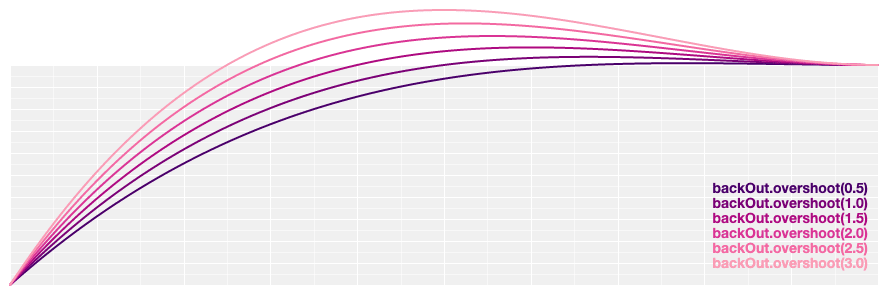
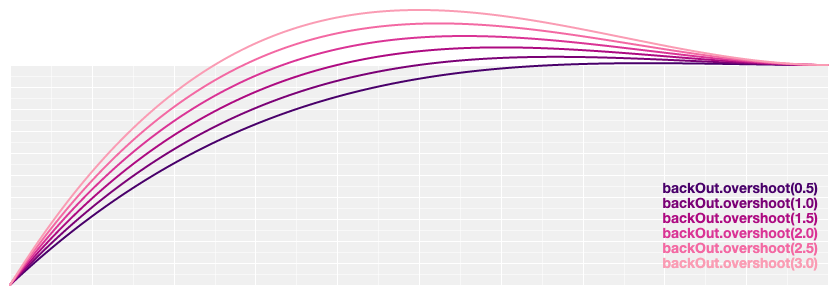
new github design: images are now 838px wide

Changed region(s): [[0.7757, 0.6102, 0.9928, 0.9153], [0.031, 0.3966, 0.2792, 0.9153], [0.0, 0.9153, 0.031, 0.9763]]

diff --git a/README.md b/README.md
@@ -45,26 +45,26 @@ var te = customElastic(t);
 
 Linear easing; the identity function; *linear*(*t*) returns *t*.
 
-[<img src="https://raw.githubusercontent.com/d3/d3-ease/master/img/linear.png" alt="linear" width="100%" height="240">](https://observablehq.com/@d3/easing#linear)
+[<img src="https://raw.githubusercontent.com/d3/d3-ease/master/img/linear.png" alt="linear">](https://observablehq.com/@d3/easing#linear)
 
 <a name="easePolyIn" href="#easePolyIn">#</a> d3.<b>easePolyIn</b>(<i>t</i>) [<>](https://github.com/d3/d3-ease/blob/master/src/poly.js#L3 "Source")
 
 Polynomial easing; raises *t* to the specified [exponent](#poly_exponent). If the exponent is not specified, it defaults to 3, equivalent to [cubicIn](#easeCubicIn).
 
-[<img src="https://raw.githubusercontent.com/d3/d3-ease/master/img/polyIn.png" alt="polyIn" width="100%" height="240">](https://observablehq.com/@d3/easing#polyIn)
+[<img src="https://raw.githubusercontent.com/d3/d3-ease/master/img/polyIn.png" alt="polyIn">](https://observablehq.com/@d3/easing#polyIn)
 
 <a name="easePolyOut" href="#easePolyOut">#</a> d3.<b>easePolyOut</b>(<i>t</i>) [<>](https://github.com/d3/d3-ease/blob/master/src/poly.js#L15 "Source")
 
 Reverse polynomial easing; equivalent to 1 - [polyIn](#easePolyIn)(1 - *t*). If the [exponent](#poly_exponent) is not specified, it defaults to 3, equivalent to [cubicOut](#easeCubicOut).
 
-[<img src="https://raw.githubusercontent.com/d3/d3-ease/master/img/polyOut.png" alt="polyOut" width="100%" height="240">](https://observablehq.com/@d3/easing#polyOut)
+[<img src="https://raw.githubusercontent.com/d3/d3-ease/master/img/polyOut.png" alt="polyOut">](https://observablehq.com/@d3/easing#polyOut)
 
 <a name="easePoly" href="#easePoly">#</a> d3.<b>easePoly</b>(<i>t</i>) [<>](https://github.com/d3/d3-ease/blob/master/src/poly.js "Source")
 <br><a name="easePolyInOut" href="#easePolyInOut">#</a> d3.<b>easePolyInOut</b>(<i>t</i>) [<>](https://github.com/d3/d3-ease/blob/master/src/poly.js#L27 "Source")
 
 Symmetric polynomial easing; scales [polyIn](#easePolyIn) for *t* in [0, 0.5] and [polyOut](#easePolyOut) for *t* in [0.5, 1]. If the [exponent](#poly_exponent) is not specified, it defaults to 3, equivalent to [cubic](#easeCubic).
 
-[<img src="https://raw.githubusercontent.com/d3/d3-ease/master/img/polyInOut.png" alt="polyInOut" width="100%" height="240">](https://observablehq.com/@d3/easing#polyInOut)
+[<img src="https://raw.githubusercontent.com/d3/d3-ease/master/img/polyInOut.png" alt="polyInOut">](https://observablehq.com/@d3/easing#polyInOut)
 
 <a name="poly_exponent" href="#poly_exponent">#</a> <i>poly</i>.<b>exponent</b>(<i>e</i>) [<>](https://github.com/d3/d3-ease/blob/master/src/poly.js#L1 "Source")
 
@@ -80,115 +80,115 @@ var linear = d3.easePoly.exponent(1),
 
 Quadratic easing; equivalent to [polyIn](#easePolyIn).[exponent](#poly_exponent)(2).
 
-[<img src="https://raw.githubusercontent.com/d3/d3-ease/master/img/quadIn.png" alt="quadIn" width="100%" height="240">](https://observablehq.com/@d3/easing#quadIn)
+[<img src="https://raw.githubusercontent.com/d3/d3-ease/master/img/quadIn.png" alt="quadIn">](https://observablehq.com/@d3/easing#quadIn)
 
 <a name="easeQuadOut" href="#easeQuadOut">#</a> d3.<b>easeQuadOut</b>(<i>t</i>) [<>](https://github.com/d3/d3-ease/blob/master/src/quad.js#L5 "Source")
 
 Reverse quadratic easing; equivalent to 1 - [quadIn](#easeQuadIn)(1 - *t*). Also equivalent to [polyOut](#easePolyOut).[exponent](#poly_exponent)(2).
 
-[<img src="https://raw.githubusercontent.com/d3/d3-ease/master/img/quadOut.png" alt="quadOut" width="100%" height="240">](https://observablehq.com/@d3/easing#quadOut)
+[<img src="https://raw.githubusercontent.com/d3/d3-ease/master/img/quadOut.png" alt="quadOut">](https://observablehq.com/@d3/easing#quadOut)
 
 <a name="easeQuad" href="#easeQuad">#</a> d3.<b>easeQuad</b>(<i>t</i>) [<>](https://github.com/d3/d3-ease/blob/master/src/quad.js "Source")
 <br><a name="easeQuadInOut" href="#easeQuadInOut">#</a> d3.<b>easeQuadInOut</b>(<i>t</i>) [<>](https://github.com/d3/d3-ease/blob/master/src/quad.js#L9 "Source")
 
 Symmetric quadratic easing; scales [quadIn](#easeQuadIn) for *t* in [0, 0.5] and [quadOut](#easeQuadOut) for *t* in [0.5, 1]. Also equivalent to [poly](#easePoly).[exponent](#poly_exponent)(2).
 
-[<img src="https://raw.githubusercontent.com/d3/d3-ease/master/img/quadInOut.png" alt="quadInOut" width="100%" height="240">](https://observablehq.com/@d3/easing#quadInOut)
+[<img src="https://raw.githubusercontent.com/d3/d3-ease/master/img/quadInOut.png" alt="quadInOut">](https://observablehq.com/@d3/easing#quadInOut)
 
 <a name="easeCubicIn" href="#easeCubicIn">#</a> d3.<b>easeCubicIn</b>(<i>t</i>) [<>](https://github.com/d3/d3-ease/blob/master/src/cubic.js#L1 "Source")
 
 Cubic easing; equivalent to [polyIn](#easePolyIn).[exponent](#poly_exponent)(3).
 
-[<img src="https://raw.githubusercontent.com/d3/d3-ease/master/img/cubicIn.png" alt="cubicIn" width="100%" height="240">](https://observablehq.com/@d3/easing#cubicIn)
+[<img src="https://raw.githubusercontent.com/d3/d3-ease/master/img/cubicIn.png" alt="cubicIn">](https://observablehq.com/@d3/easing#cubicIn)
 
 <a name="easeCubicOut" href="#easeCubicOut">#</a> d3.<b>easeCubicOut</b>(<i>t</i>) [<>](https://github.com/d3/d3-ease/blob/master/src/cubic.js#L5 "Source")
 
 Reverse cubic easing; equivalent to 1 - [cubicIn](#easeCubicIn)(1 - *t*). Also equivalent to [polyOut](#easePolyOut).[exponent](#poly_exponent)(3).
 
-[<img src="https://raw.githubusercontent.com/d3/d3-ease/master/img/cubicOut.png" alt="cubicOut" width="100%" height="240">](https://observablehq.com/@d3/easing#cubicOut)
+[<img src="https://raw.githubusercontent.com/d3/d3-ease/master/img/cubicOut.png" alt="cubicOut">](https://observablehq.com/@d3/easing#cubicOut)
 
 <a name="easeCubic" href="#easeCubic">#</a> d3.<b>easeCubic</b>(<i>t</i>) [<>](https://github.com/d3/d3-ease/blob/master/src/cubic.js "Source")
 <br><a name="easeCubicInOut" href="#easeCubicInOut">#</a> d3.<b>easeCubicInOut</b>(<i>t</i>) [<>](https://github.com/d3/d3-ease/blob/master/src/cubic.js#L9 "Source")
 
 Symmetric cubic easing; scales [cubicIn](#easeCubicIn) for *t* in [0, 0.5] and [cubicOut](#easeCubicOut) for *t* in [0.5, 1]. Also equivalent to [poly](#easePoly).[exponent](#poly_exponent)(3).
 
-[<img src="https://raw.githubusercontent.com/d3/d3-ease/master/img/cubicInOut.png" alt="cubicInOut" width="100%" height="240">](https://observablehq.com/@d3/easing#cubicInOut)
+[<img src="https://raw.githubusercontent.com/d3/d3-ease/master/img/cubicInOut.png" alt="cubicInOut">](https://observablehq.com/@d3/easing#cubicInOut)
 
 <a name="easeSinIn" href="#easeSinIn">#</a> d3.<b>easeSinIn</b>(<i>t</i>) [<>](https://github.com/d3/d3-ease/blob/master/src/sin.js#L4 "Source")
 
 Sinusoidal easing; returns sin(*t*).
 
-[<img src="https://raw.githubusercontent.com/d3/d3-ease/master/img/sinIn.png" alt="sinIn" width="100%" height="240">](https://observablehq.com/@d3/easing#sinIn)
+[<img src="https://raw.githubusercontent.com/d3/d3-ease/master/img/sinIn.png" alt="sinIn">](https://observablehq.com/@d3/easing#sinIn)
 
 <a name="easeSinOut" href="#easeSinOut">#</a> d3.<b>easeSinOut</b>(<i>t</i>) [<>](https://github.com/d3/d3-ease/blob/master/src/sin.js#L8 "Source")
 
 Reverse sinusoidal easing; equivalent to 1 - [sinIn](#easeSinIn)(1 - *t*).
 
-[<img src="https://raw.githubusercontent.com/d3/d3-ease/master/img/sinOut.png" alt="sinOut" width="100%" height="240">](https://observablehq.com/@d3/easing#sinOut)
+[<img src="https://raw.githubusercontent.com/d3/d3-ease/master/img/sinOut.png" alt="sinOut">](https://observablehq.com/@d3/easing#sinOut)
 
 <a name="easeSin" href="#easeSin">#</a> d3.<b>easeSin</b>(<i>t</i>) [<>](https://github.com/d3/d3-ease/blob/master/src/sin.js "Source")
 <br><a name="easeSinInOut" href="#easeSinInOut">#</a> d3.<b>easeSinInOut</b>(<i>t</i>) [<>](https://github.com/d3/d3-ease/blob/master/src/sin.js#L12 "Source")
 
 Symmetric sinusoidal easing; scales [sinIn](#easeSinIn) for *t* in [0, 0.5] and [sinOut](#easeSinOut) for *t* in [0.5, 1].
 
-[<img src="https://raw.githubusercontent.com/d3/d3-ease/master/img/sinInOut.png" alt="sinInOut" width="100%" height="240">](https://observablehq.com/@d3/easing#sinInOut)
+[<img src="https://raw.githubusercontent.com/d3/d3-ease/master/img/sinInOut.png" alt="sinInOut">](https://observablehq.com/@d3/easing#sinInOut)
 
 <a name="easeExpIn" href="#easeExpIn">#</a> d3.<b>easeExpIn</b>(<i>t</i>) [<>](https://github.com/d3/d3-ease/blob/master/src/exp.js#L1 "Source")
 
 Exponential easing; raises 2 to the exponent 10 \* (*t* - 1).
 
-[<img src="https://raw.githubusercontent.com/d3/d3-ease/master/img/expIn.png" alt="expIn" width="100%" height="240">](https://observablehq.com/@d3/easing#expIn)
+[<img src="https://raw.githubusercontent.com/d3/d3-ease/master/img/expIn.png" alt="expIn">](https://observablehq.com/@d3/easing#expIn)
 
 <a name="easeExpOut" href="#easeExpOut">#</a> d3.<b>easeExpOut</b>(<i>t</i>) [<>](https://github.com/d3/d3-ease/blob/master/src/exp.js#L5 "Source")
 
 Reverse exponential easing; equivalent to 1 - [expIn](#easeExpIn)(1 - *t*).
 
-[<img src="https://raw.githubusercontent.com/d3/d3-ease/master/img/expOut.png" alt="expOut" width="100%" height="240">](https://observablehq.com/@d3/easing#expOut)
+[<img src="https://raw.githubusercontent.com/d3/d3-ease/master/img/expOut.png" alt="expOut">](https://observablehq.com/@d3/easing#expOut)
 
 <a name="easeExp" href="#easeExp">#</a> d3.<b>easeExp</b>(<i>t</i>) [<>](https://github.com/d3/d3-ease/blob/master/src/exp.js "Source")
 <br><a name="easeExpInOut" href="#easeExpInOut">#</a> d3.<b>easeExpInOut</b>(<i>t</i>) [<>](https://github.com/d3/d3-ease/blob/master/src/exp.js#L9 "Source")
 
 Symmetric exponential easing; scales [expIn](#easeExpIn) for *t* in [0, 0.5] and [expOut](#easeExpOut) for *t* in [0.5, 1].
 
-[<img src="https://raw.githubusercontent.com/d3/d3-ease/master/img/expInOut.png" alt="expInOut" width="100%" height="240">](https://observablehq.com/@d3/easing#expInOut)
+[<img src="https://raw.githubusercontent.com/d3/d3-ease/master/img/expInOut.png" alt="expInOut">](https://observablehq.com/@d3/easing#expInOut)
 
 <a name="easeCircleIn" href="#easeCircleIn">#</a> d3.<b>easeCircleIn</b>(<i>t</i>) [<>](https://github.com/d3/d3-ease/blob/master/src/circle.js#L1 "Source")
 
 Circular easing.
 
-[<img src="https://raw.githubusercontent.com/d3/d3-ease/master/img/circleIn.png" alt="circleIn" width="100%" height="240">](https://observablehq.com/@d3/easing#circleIn)
+[<img src="https://raw.githubusercontent.com/d3/d3-ease/master/img/circleIn.png" alt="circleIn">](https://observablehq.com/@d3/easing#circleIn)
 
 <a name="easeCircleOut" href="#easeCircleOut">#</a> d3.<b>easeCircleOut</b>(<i>t</i>) [<>](https://github.com/d3/d3-ease/blob/master/src/circle.js#L5 "Source")
 
 Reverse circular easing; equivalent to 1 - [circleIn](#easeCircleIn)(1 - *t*).
 
-[<img src="https://raw.githubusercontent.com/d3/d3-ease/master/img/circleOut.png" alt="circleOut" width="100%" height="240">](https://observablehq.com/@d3/easing#circleOut)
+[<img src="https://raw.githubusercontent.com/d3/d3-ease/master/img/circleOut.png" alt="circleOut">](https://observablehq.com/@d3/easing#circleOut)
 
 <a name="easeCircle" href="#easeCircle">#</a> d3.<b>easeCircle</b>(<i>t</i>) [<>](https://github.com/d3/d3-ease/blob/master/src/circle.js "Source")
 <br><a name="easeCircleInOut" href="#easeCircleInOut">#</a> d3.<b>easeCircleInOut</b>(<i>t</i>) [<>](https://github.com/d3/d3-ease/blob/master/src/circle.js#L9 "Source")
 
 Symmetric circular easing; scales [circleIn](#easeCircleIn) for *t* in [0, 0.5] and [circleOut](#easeCircleOut) for *t* in [0.5, 1].
 
-[<img src="https://raw.githubusercontent.com/d3/d3-ease/master/img/circleInOut.png" alt="circleInOut" width="100%" height="240">](https://observablehq.com/@d3/easing#circleInOut)
+[<img src="https://raw.githubusercontent.com/d3/d3-ease/master/img/circleInOut.png" alt="circleInOut">](https://observablehq.com/@d3/easing#circleInOut)
 
 <a name="easeElasticIn" href="#easeElasticIn">#</a> d3.<b>easeElasticIn</b>(<i>t</i>) [<>](https://github.com/d3/d3-ease/blob/master/src/elastic.js#L5 "Source")
 
 Elastic easing, like a rubber band. The [amplitude](#elastic_amplitude) and [period](#elastic_period) of the oscillation are configurable; if not specified, they default to 1 and 0.3, respectively.
 
-[<img src="https://raw.githubusercontent.com/d3/d3-ease/master/img/elasticIn.png" alt="elasticIn" width="100%" height="360">](https://observablehq.com/@d3/easing#elasticIn)
+[<img src="https://raw.githubusercontent.com/d3/d3-ease/master/img/elasticIn.png" alt="elasticIn">](https://observablehq.com/@d3/easing#elasticIn)
 
 <a name="easeElastic" href="#easeElastic">#</a> d3.<b>easeElastic</b>(<i>t</i>) [<>](https://github.com/d3/d3-ease/blob/master/src/elastic.js "Source")
 <br><a name="easeElasticOut" href="#easeElasticOut">#</a> d3.<b>easeElasticOut</b>(<i>t</i>) [<>](https://github.com/d3/d3-ease/blob/master/src/elastic.js#L18 "Source")
 
 Reverse elastic easing; equivalent to 1 - [elasticIn](#easeElasticIn)(1 - *t*).
 
-[<img src="https://raw.githubusercontent.com/d3/d3-ease/master/img/elasticOut.png" alt="elasticOut" width="100%" height="360">](https://observablehq.com/@d3/easing#elasticOut)
+[<img src="https://raw.githubusercontent.com/d3/d3-ease/master/img/elasticOut.png" alt="elasticOut">](https://observablehq.com/@d3/easing#elasticOut)
 
 <a name="easeElasticInOut" href="#easeElasticInOut">#</a> d3.<b>easeElasticInOut</b>(<i>t</i>) [<>](https://github.com/d3/d3-ease/blob/master/src/elastic.js#L31 "Source")
 
 Symmetric elastic easing; scales [elasticIn](#easeElasticIn) for *t* in [0, 0.5] and [elasticOut](#easeElasticOut) for *t* in [0.5, 1].
 
-[<img src="https://raw.githubusercontent.com/d3/d3-ease/master/img/elasticInOut.png" alt="elasticInOut" width="100%" height="360">](https://observablehq.com/@d3/easing#elasticInOut)
+[<img src="https://raw.githubusercontent.com/d3/d3-ease/master/img/elasticInOut.png" alt="elasticInOut">](https://observablehq.com/@d3/easing#elasticInOut)
 
 <a name="elastic_amplitude" href="#elastic_amplitude">#</a> <i>elastic</i>.<b>amplitude</b>(<i>a</i>) [<>](https://github.com/d3/d3-ease/blob/master/src/elastic.js#L40 "Source")
 
@@ -202,20 +202,20 @@ Returns a new elastic easing with the specified period *p*.
 
 [Anticipatory](https://en.wikipedia.org/wiki/12_basic_principles_of_animation#Anticipation) easing, like a dancer bending his knees before jumping off the floor. The degree of [overshoot](#back_overshoot) is configurable; if not specified, it defaults to 1.70158.
 
-[<img src="https://raw.githubusercontent.com/d3/d3-ease/master/img/backIn.png" alt="backIn" width="100%" height="300">](https://observablehq.com/@d3/easing#backIn)
+[<img src="https://raw.githubusercontent.com/d3/d3-ease/master/img/backIn.png" alt="backIn">](https://observablehq.com/@d3/easing#backIn)
 
 <a name="easeBackOut" href="#easeBackOut">#</a> d3.<b>easeBackOut</b>(<i>t</i>) [<>](https://github.com/d3/d3-ease/blob/master/src/back.js#L15 "Source")
 
 Reverse anticipatory easing; equivalent to 1 - [backIn](#easeBackIn)(1 - *t*).
 
-[<img src="https://raw.githubusercontent.com/d3/d3-ease/master/img/backOut.png" alt="backOut" width="100%" height="300">](https://observablehq.com/@d3/easing#backOut)
+[<img src="https://raw.githubusercontent.com/d3/d3-ease/master/img/backOut.png" alt="backOut">](https://observablehq.com/@d3/easing#backOut)
 
 <a name="easeBack" href="#easeBack">#</a> d3.<b>easeBack</b>(<i>t</i>) [<>](https://github.com/d3/d3-ease/blob/master/src/back.js "Source")
 <br><a name="easeBackInOut" href="#easeBackInOut">#</a> d3.<b>easeBackInOut</b>(<i>t</i>) [<>](https://github.com/d3/d3-ease/blob/master/src/back.js#L27 "Source")
 
 Symmetric anticipatory easing; scales [backIn](#easeBackIn) for *t* in [0, 0.5] and [backOut](#easeBackOut) for *t* in [0.5, 1].
 
-[<img src="https://raw.githubusercontent.com/d3/d3-ease/master/img/backInOut.png" alt="backInOut" width="100%" height="300">](https://observablehq.com/@d3/easing#backInOut)
+[<img src="https://raw.githubusercontent.com/d3/d3-ease/master/img/backInOut.png" alt="backInOut">](https://observablehq.com/@d3/easing#backInOut)
 
 <a name="back_overshoot" href="#back_overshoot">#</a> <i>back</i>.<b>overshoot</b>(<i>s</i>) [<>](https://github.com/d3/d3-ease/blob/master/src/back.js#L1 "Source")
 
@@ -225,17 +225,17 @@ Returns a new back easing with the specified overshoot *s*.
 
 Bounce easing, like a rubber ball.
 
-[<img src="https://raw.githubusercontent.com/d3/d3-ease/master/img/bounceIn.png" alt="bounceIn" width="100%" height="240">](https://observablehq.com/@d3/easing#bounceIn)
+[<img src="https://raw.githubusercontent.com/d3/d3-ease/master/img/bounceIn.png" alt="bounceIn">](https://observablehq.com/@d3/easing#bounceIn)
 
 <a name="easeBounce" href="#easeBounce">#</a> d3.<b>easeBounce</b>(<i>t</i>) [<>](https://github.com/d3/d3-ease/blob/master/src/bounce.js "Source")
 <br><a name="easeBounceOut" href="#easeBounceOut">#</a> d3.<b>easeBounceOut</b>(<i>t</i>) [<>](https://github.com/d3/d3-ease/blob/master/src/bounce.js#L16 "Source")
 
 Reverse bounce easing; equivalent to 1 - [bounceIn](#easeBounceIn)(1 - *t*).
 
-[<img src="https://raw.githubusercontent.com/d3/d3-ease/master/img/bounceOut.png" alt="bounceOut" width="100%" height="240">](https://observablehq.com/@d3/easing#bounceOut)
+[<img src="https://raw.githubusercontent.com/d3/d3-ease/master/img/bounceOut.png" alt="bounceOut">](https://observablehq.com/@d3/easing#bounceOut)
 
 <a name="easeBounceInOut" href="#easeBounceInOut">#</a> d3.<b>easeBounceInOut</b>(<i>t</i>) [<>](https://github.com/d3/d3-ease/blob/master/src/bounce.js#L20 "Source")
 
 Symmetric bounce easing; scales [bounceIn](#easeBounceIn) for *t* in [0, 0.5] and [bounceOut](#easeBounceOut) for *t* in [0.5, 1].
 
-[<img src="https://raw.githubusercontent.com/d3/d3-ease/master/img/bounceInOut.png" alt="bounceInOut" width="100%" height="240">](https://observablehq.com/@d3/easing#bounceInOut)
+[<img src="https://raw.githubusercontent.com/d3/d3-ease/master/img/bounceInOut.png" alt="bounceInOut">](https://observablehq.com/@d3/easing#bounceInOut)
